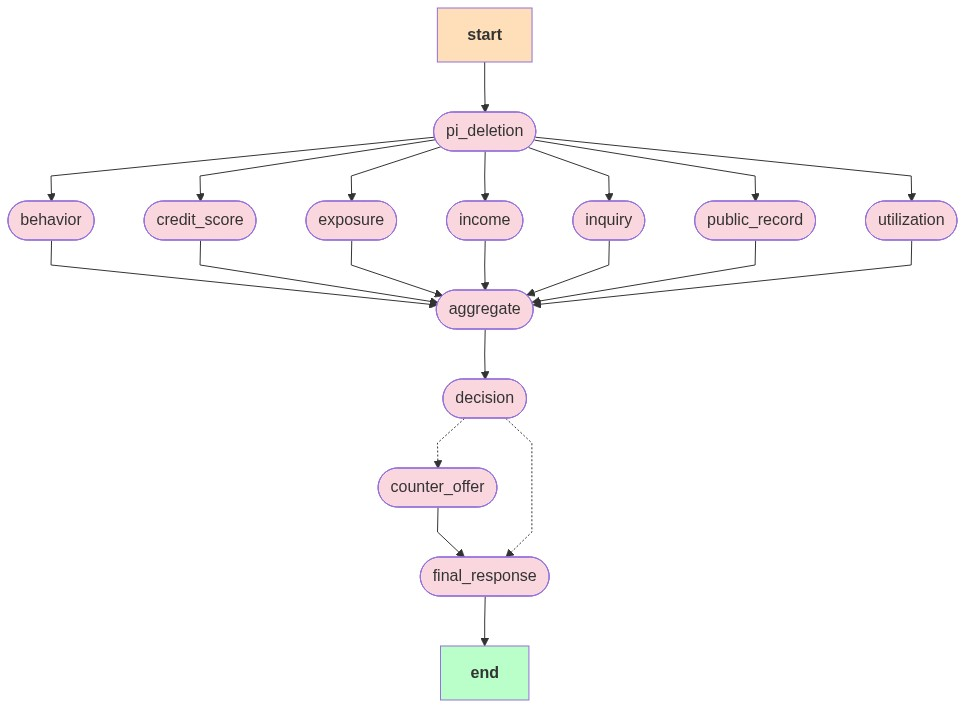
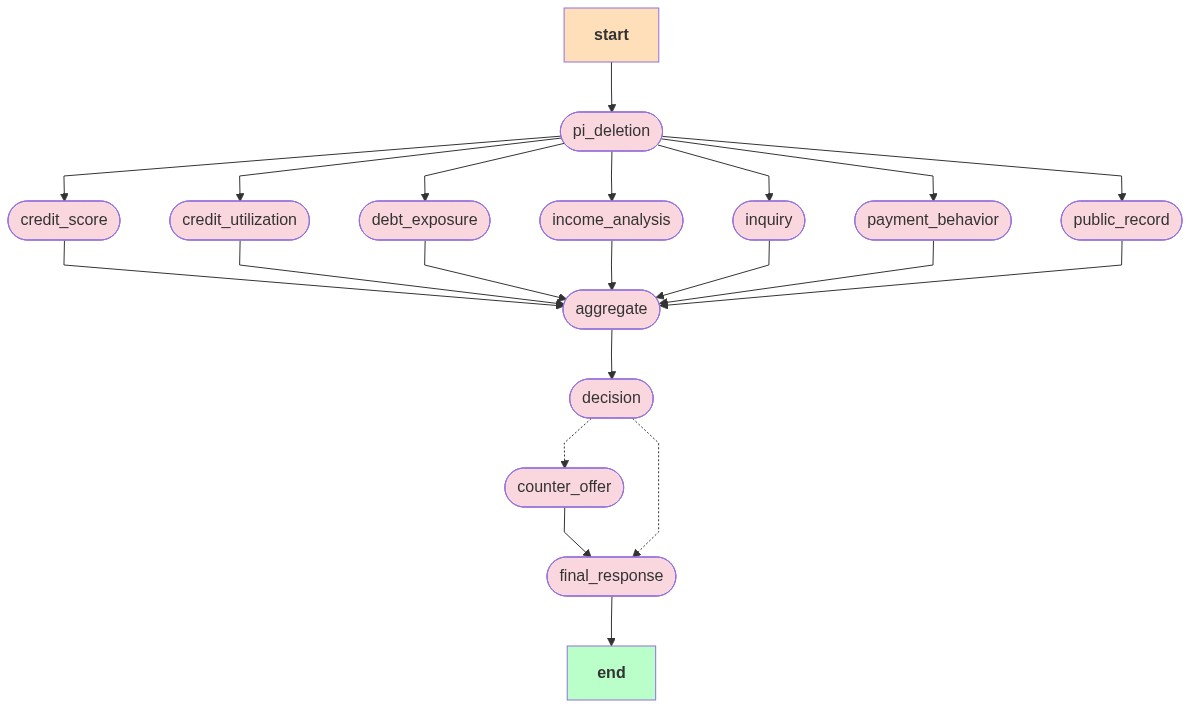
Graph setup

diff --git a/agents/decisioning_agent/src/workflows/decision_flow.py b/agents/decisioning_agent/src/workflows/decision_flow.py
@@ -48,11 +48,11 @@ def build_underwriting_graph():
     graph.add_node("pi_deletion", pi_deletion_node)
     graph.add_node("credit_score", credit_score_node)
     graph.add_node("public_record", public_record_node)
-    graph.add_node("utilization", utilization_node)
-    graph.add_node("exposure", exposure_node)
-    graph.add_node("behavior", behavior_node)
+    graph.add_node("credit_utilization", utilization_node)
+    graph.add_node("debt_exposure", exposure_node)
+    graph.add_node("payment_behavior", behavior_node)
     graph.add_node("inquiry", inquiry_node)
-    graph.add_node("income", income_node)
+    graph.add_node("income_analysis", income_node)
 
     graph.add_node("aggregate", risk_aggregator_node)
     graph.add_node("decision", decision_llm_node)
@@ -71,11 +71,11 @@ def build_underwriting_graph():
 
     graph.add_edge("pi_deletion", "credit_score")
     graph.add_edge("pi_deletion", "public_record")
-    graph.add_edge("pi_deletion", "utilization")
-    graph.add_edge("pi_deletion", "exposure")
-    graph.add_edge("pi_deletion", "behavior")
+    graph.add_edge("pi_deletion", "credit_utilization")
+    graph.add_edge("pi_deletion", "debt_exposure")
+    graph.add_edge("pi_deletion", "payment_behavior")
     graph.add_edge("pi_deletion", "inquiry")
-    graph.add_edge("pi_deletion", "income")
+    graph.add_edge("pi_deletion", "income_analysis")
 
     # -----------------------
     # Join → Aggregator
@@ -83,11 +83,11 @@ def build_underwriting_graph():
 
     graph.add_edge("credit_score", "aggregate")
     graph.add_edge("public_record", "aggregate")
-    graph.add_edge("utilization", "aggregate")
-    graph.add_edge("exposure", "aggregate")
-    graph.add_edge("behavior", "aggregate")
+    graph.add_edge("credit_utilization", "aggregate")
+    graph.add_edge("debt_exposure", "aggregate")
+    graph.add_edge("payment_behavior", "aggregate")
     graph.add_edge("inquiry", "aggregate")
-    graph.add_edge("income", "aggregate")
+    graph.add_edge("income_analysis", "aggregate")
 
     # -----------------------
     # Decision Layer
@@ -125,10 +125,13 @@ def build_underwriting_graph():
     return graph.compile()
 
 
-if __name__ == "__main__":
-    workflow = build_underwriting_graph()
+# if __name__ == "__main__":
+#     workflow = build_underwriting_graph()
 
-    result = workflow.invoke({})
+#     result = workflow.invoke({})
 
-    with open("underwriting_graph.png", "wb") as f:
-        f.write(workflow.get_graph().draw_mermaid_png())
+#     with open("underwriting_graph.png", "wb") as f:
+#         f.write(workflow.get_graph().draw_mermaid_png())
+        
+#     print("Final Decision:")
+#     print(result)
